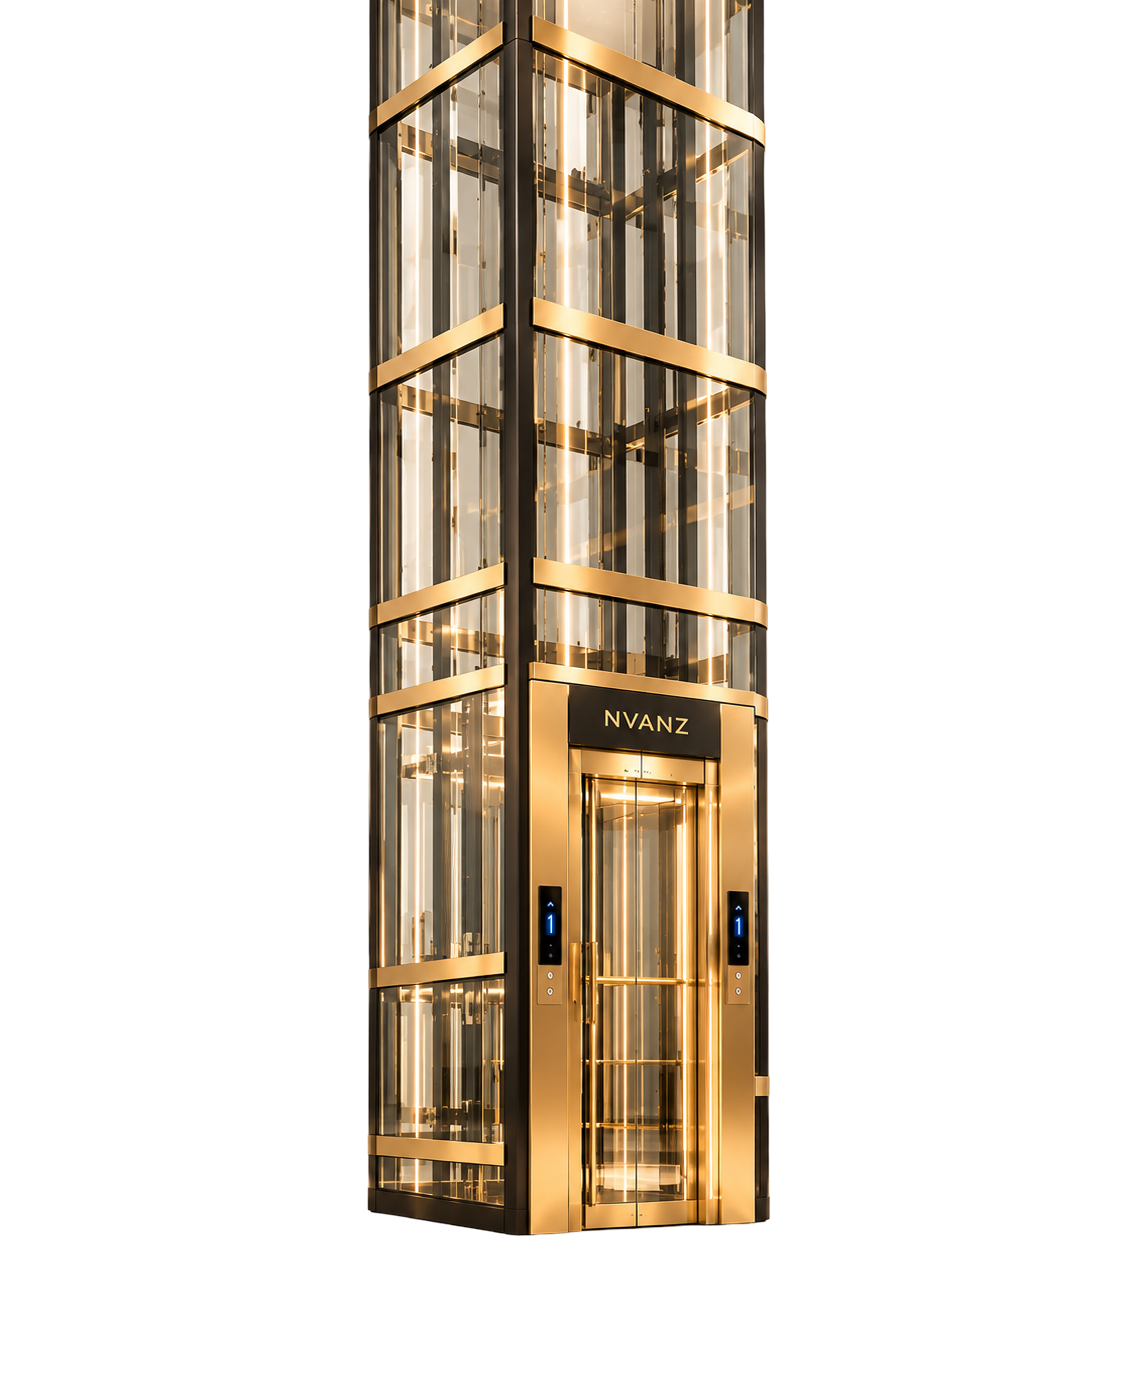
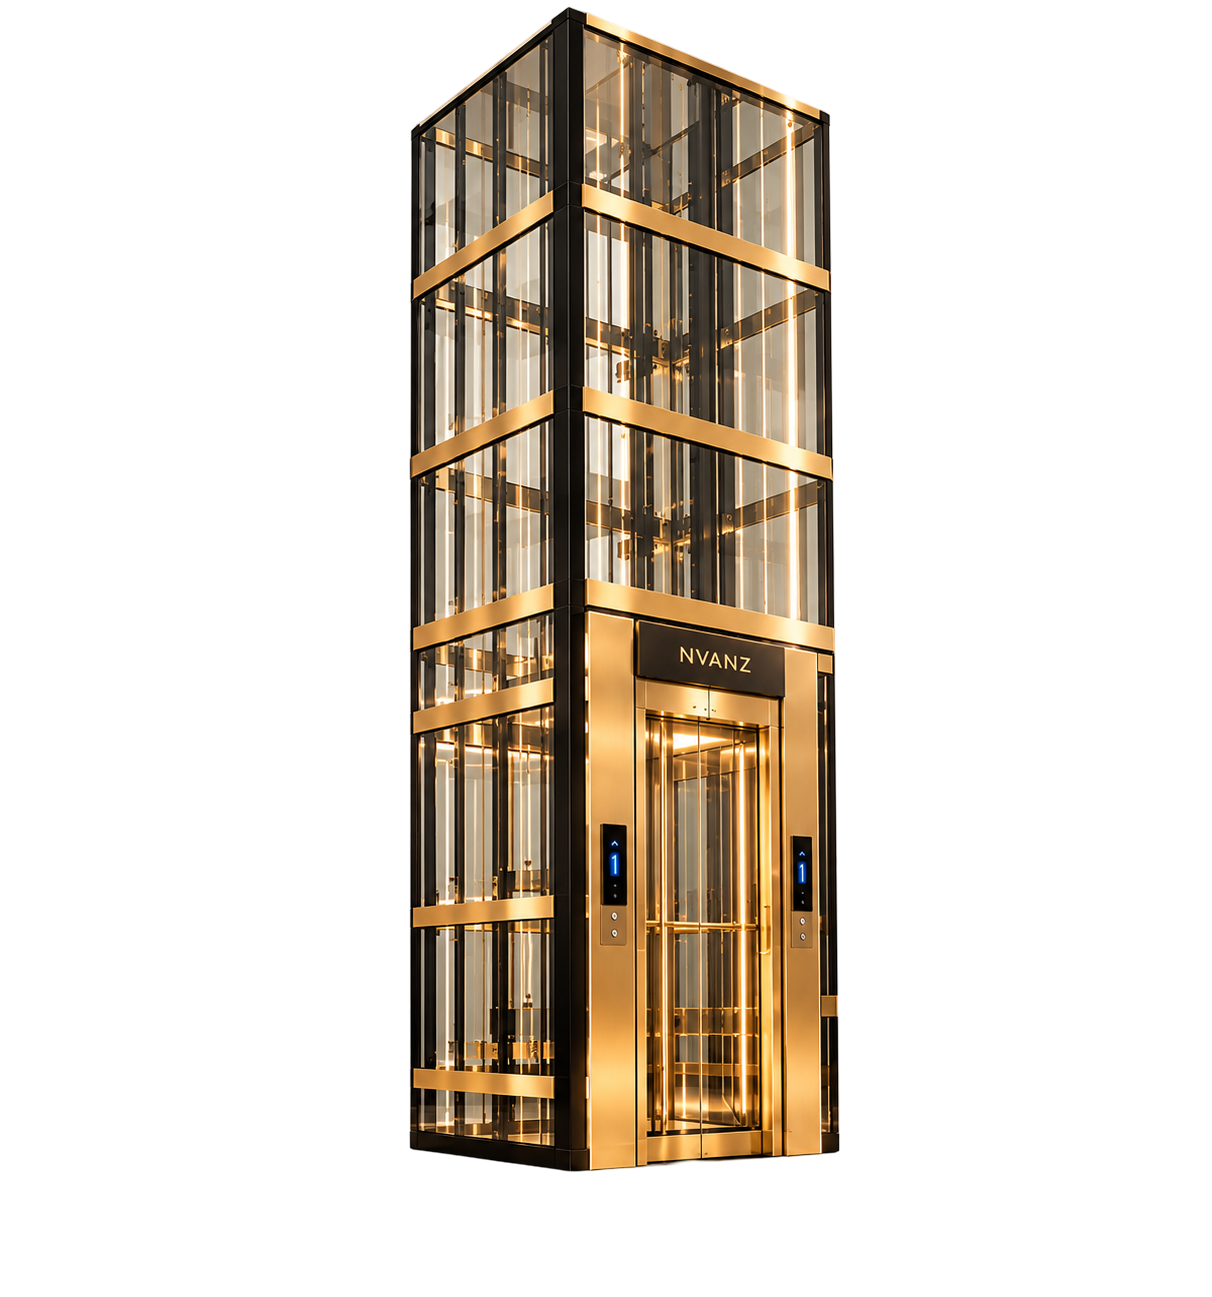
updated hero section images

Changed region(s): [[0.3097, 0.0, 0.7124, 0.9252]]

diff --git a/src/Components/HomeComponents/HeroImageCarousel.jsx b/src/Components/HomeComponents/HeroImageCarousel.jsx
@@ -6,6 +6,8 @@ const EASE = "cubic-bezier(0.65, 0, 0.35, 1)"
 const REFLECTION_RATIO = 0.45                // reflection height as a fraction of the image height
 const REFLECTION_GAP = "1px"                 // small gap between the image and its reflection
 
+
+
 const KEYFRAMES = `
 @keyframes heroSlideIn  { from { transform: translate3d(160%, 0, 0); }  to { transform: translate3d(0, 0, 0); } }
 @keyframes heroSlideOut {
@@ -33,11 +35,19 @@ const getAnimation = (role, reduced) => {
  *  - activeSrc: image of the currently active journey stop (may be undefined)
  *  - activeKey: active stop index – every change triggers a new transition
  */
-const HeroImageCarousel = ({ images = [], activeSrc, activeKey }) => {
-    const [slides, setSlides] = useState(() => ({
-        current: { uid: 0, activeKey, src: activeSrc },
-        leaving: null,
-    }))
+const HeroImageCarousel = ({images = [],
+    activeSrc,
+    activeAlt = "",
+    activeKey }) => {
+   const [slides, setSlides] = useState(() => ({
+    current: {
+        uid: 0,
+        activeKey,
+        src: activeSrc,
+        alt: activeAlt
+    },
+    leaving: null,
+}));
     const [reduced, setReduced] = useState(false)
 
     // Respect prefers-reduced-motion (slide -> crossfade)
@@ -61,14 +71,23 @@ const HeroImageCarousel = ({ images = [], activeSrc, activeKey }) => {
 
     // Active stop changed: current slide leaves to the left, the new one enters from the right
     useEffect(() => {
-        setSlides((prev) => {
-            if (prev.current.activeKey === activeKey && prev.current.src === activeSrc) return prev
-            return {
-                current: { uid: prev.current.uid + 1, activeKey, src: activeSrc },
-                leaving: prev.current,
-            }
-        })
-    }, [activeKey, activeSrc])
+    setSlides((prev) => {
+        if (
+            prev.current.activeKey === activeKey &&
+            prev.current.src === activeSrc
+        ) return prev;
+
+        return {
+            current: {
+                uid: prev.current.uid + 1,
+                activeKey,
+                src: activeSrc,
+                alt: activeAlt
+            },
+            leaving: prev.current,
+        };
+    });
+}, [activeKey, activeSrc, activeAlt]);
 
     // Remove the leaving slide from the DOM once its exit animation is done
     const leavingUid = slides.leaving?.uid
@@ -94,7 +113,7 @@ const HeroImageCarousel = ({ images = [], activeSrc, activeKey }) => {
         >
             <style>{KEYFRAMES}</style>
 
-            {rendered.map(({ uid, src, role }) => (
+            {rendered.map(({ uid, src, alt, role }) => (
                 <div
                     key={uid}
                     className="absolute inset-0"
@@ -103,7 +122,7 @@ const HeroImageCarousel = ({ images = [], activeSrc, activeKey }) => {
                     {/* Main image: full picture, top to bottom, resting on the floor line */}
                     <img
                         src={src}
-                        alt=""
+                        alt={alt || "NVANZ home elevator"}
                         decoding="async"
                         className="h-full w-full object-contain object-bottom"
                     />
@@ -121,12 +140,65 @@ const HeroImageCarousel = ({ images = [], activeSrc, activeKey }) => {
                         <img
                             src={src}
                             alt=""
+                            aria-hidden="true"
                             decoding="async"
                             className="w-full -scale-y-100 object-contain object-bottom"
                             style={{ height: `${100 / REFLECTION_RATIO}%` }}
                         />
                     </div>
                 </div>
+
+//  <div
+//         key={uid}
+//         className="absolute inset-0 flex items-end justify-center"
+//         style={{
+//             animation: getAnimation(role, reduced),
+//             willChange: "transform",
+//         }}
+//     >
+//         {/* Main Product Image */}
+//         <img
+//             src={src}
+//             alt={alt || "NVANZ home elevator"}
+//             decoding="async"
+//             className="
+//                 block
+//                 h-full
+//                 w-full
+//                 object-contain
+//                 object-bottom
+//             "
+//         />
+
+//         {/* Mirror Reflection */}
+//         <div
+//             className="absolute left-0 w-full overflow-hidden opacity-40"
+//             style={{
+//                 top: `calc(100% + ${REFLECTION_GAP})`,
+//                 height: `${REFLECTION_RATIO * 100}%`,
+//                 WebkitMaskImage: REFLECTION_MASK,
+//                 maskImage: REFLECTION_MASK,
+//             }}
+//         >
+//             <img
+//                 src={src}
+//                 alt=""
+//                 aria-hidden="true"
+//                 decoding="async"
+//                 className="
+//                     block
+//                     w-full
+//                     -scale-y-100
+//                     object-contain
+//                     object-bottom
+//                 "
+//                 style={{
+//                     height: `${100 / REFLECTION_RATIO}%`,
+//                 }}
+//             />
+//         </div>
+//     </div>
+
             ))}
         </div>
     )

diff --git a/src/Components/HomeComponents/HomePageHeroSectionNew.jsx b/src/Components/HomeComponents/HomePageHeroSectionNew.jsx
@@ -17,7 +17,8 @@ const HomePageHeroSectionNew=()=>{
             highlightHeading:"1805",
             subText:"Small spaces",
             capsulText:"360° CIRCULAR",
-            img:images?.prestige,
+            img:images?.compactImg,
+            alt: "Compact 1805 Circular Home Elevator",
 
         },
         {
@@ -25,7 +26,8 @@ const HomePageHeroSectionNew=()=>{
             highlightHeading:"1805",
             capsulText:"PANORAMIC",
             subText:"Statement design",
-            img:images?.prestige,
+            img:images?.panoramaImg,
+            alt: "Panorama 1805 Panoramic Home Elevator",
 
         },
         {
@@ -35,7 +37,8 @@ const HomePageHeroSectionNew=()=>{
             capsulText:"HYDRAULIC",
 
             subText:"Low-rise homes",
-            img:images?.prestige,
+            img:images?.groundImg,
+            alt: "Ground 1506 Hydraulic Home Elevator",
 
         },
         {
@@ -45,6 +48,8 @@ const HomePageHeroSectionNew=()=>{
             subText:"No machine room needed",
             img:images?.prestige,
 
+            alt: "Prestige 1110 MRL Home Elevator",
+
         },
         {
             heading:"Signature",
@@ -52,6 +57,7 @@ const HomePageHeroSectionNew=()=>{
             capsulText:"TRACTION",
              subText:"Smooth, quiet daily use",
              img:images?.signatureImg,
+             alt: "Signature 1101 Traction Home Elevator",
 
         },
          {
@@ -60,8 +66,8 @@ const HomePageHeroSectionNew=()=>{
             highlightHeading:"Vantage",
             capsulText:"NVANZ",
             subText:"Elevating the Way You Live.",
-            desc:'NVANZ Elevators is an ISO 9001:2015 certified elevator manufacturer. We design, manufacture and install premium elevators for villas, homes and small buildings. Every elevator is engineered for safety, smooth performance and elegant design. The Premium Vantage.'
-
+            desc:'NVANZ Elevators is an ISO 9001:2015 certified elevator manufacturer. We design, manufacture and install premium elevators for villas, homes and small buildings. Every elevator is engineered for safety, smooth performance and elegant design. The Premium Vantage.',
+            alt: "",
         },
     ]
 
@@ -89,6 +95,7 @@ const HomePageHeroSectionNew=()=>{
            <HeroImageCarousel
     images={carouselImages}
     activeSrc={activeData?.img}
+    activeAlt={activeData?.alt}
     activeKey={activeStopIndex}
 />
              {/* Vertical side CTA - tablet & desktop only */}

diff --git a/src/assets/Images/index.js b/src/assets/Images/index.js
@@ -94,6 +94,10 @@ import rightDoor2 from './elevator_right_door.png'
 
 import signatureImg from './signature-1101.png'
 import prestige from './prestige-1110.png'
+import groundImg from './ground-1506.png'
+import compactImg from './compact-1805.png'
+import panoramaImg from './panorama-1805.png'
+
 
 
 
@@ -184,6 +188,10 @@ const images = {
 
     signatureImg,
     prestige,
+    groundImg,
+    compactImg,
+    panoramaImg
+    
 
     
 };
